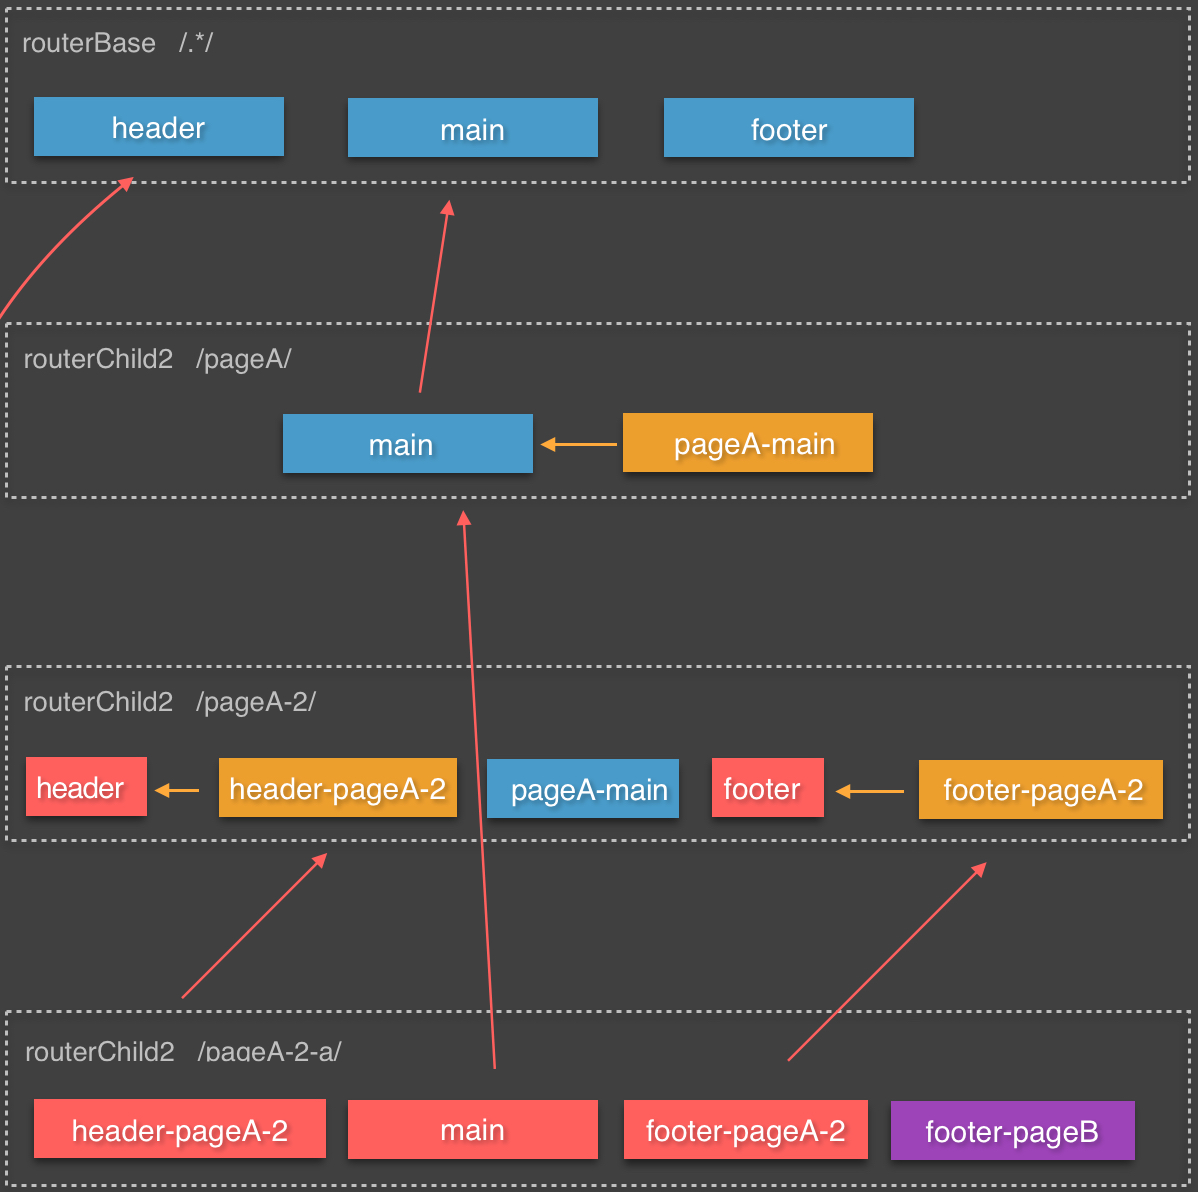
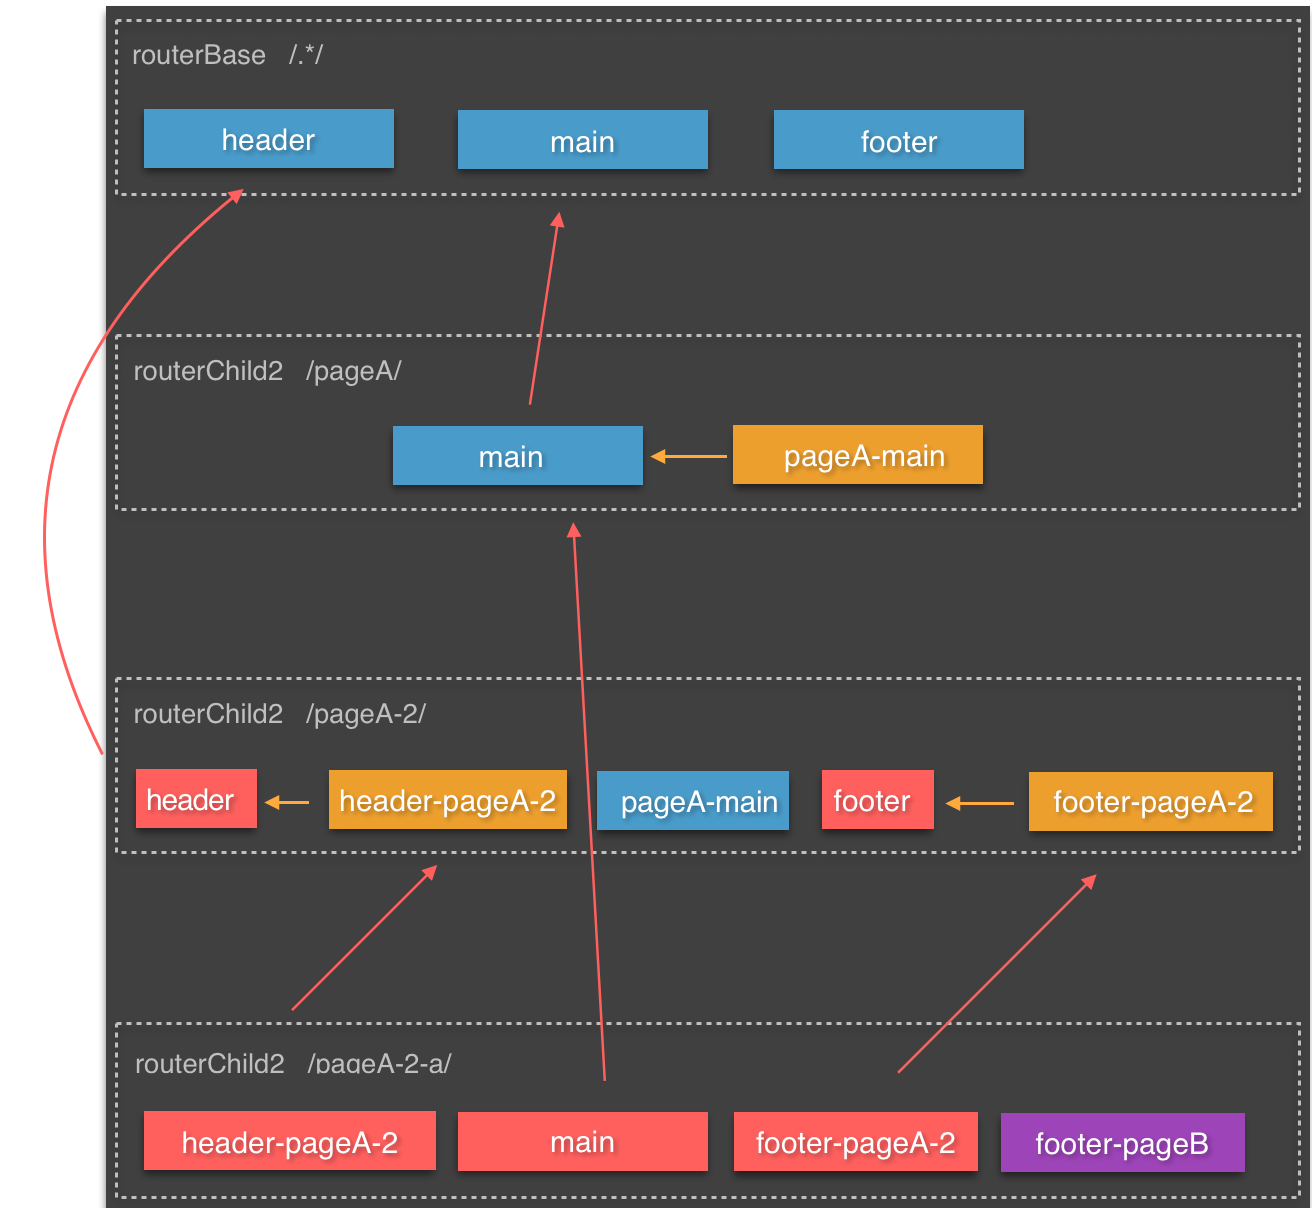
add new block logic image

diff --git a/README.md b/README.md
@@ -112,8 +112,11 @@ wowspg路由结构是一个树形拓扑结构，形如：
 * 下级router指向的block可以继承父级router的block或者祖先router的block
 * 同一级router下得block可以相互依赖
 * 存在依赖关系的block，在被依赖的block渲染结束才会渲染新的block
+* 如下图所示，url `/pageA/pageA-2/pageA-2-a`, 会匹配到四个block：`header-page-2`, `main`, `footer-pageA-2`, `footer-pageB`。页面渲染时最终只会渲染红色的block。
 
 ![wow_block_info](./doc/image/wow_block_info.jpg)
+
+
 
 
 
